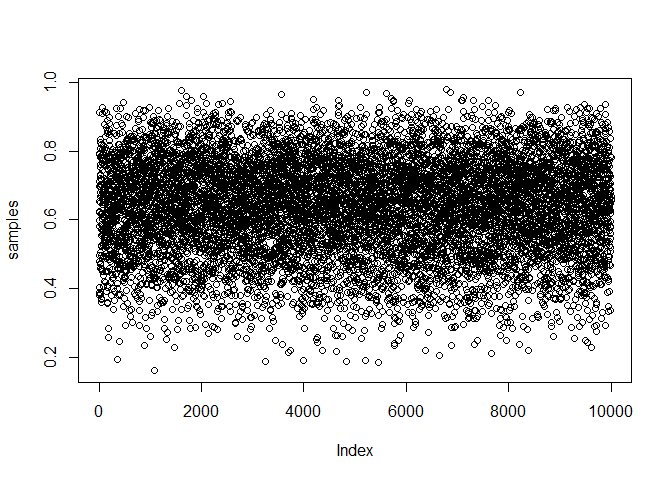
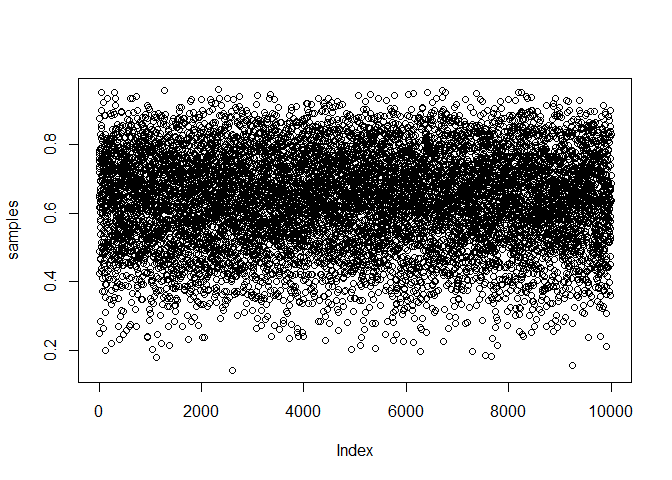
ch3 exercises

diff --git a/03-SamplingTheImaginary.md b/03-SamplingTheImaginary.md
@@ -101,15 +101,15 @@ dens
 #> Call:
 #>  density.default(x = samples)
 #> 
-#> Data: samples (10000 obs.);  Bandwidth 'bw' = 0.01965
+#> Data: samples (10000 obs.);  Bandwidth 'bw' = 0.01989
 #> 
-#>        x                y            
-#>  Min.   :0.1012   Min.   :0.0000239  
-#>  1st Qu.:0.3354   1st Qu.:0.0825700  
-#>  Median :0.5696   Median :0.7681021  
-#>  Mean   :0.5696   Mean   :1.0665385  
-#>  3rd Qu.:0.8037   3rd Qu.:1.9894292  
-#>  Max.   :1.0379   Max.   :2.7763942
+#>        x                 y            
+#>  Min.   :0.07948   Min.   :0.0000242  
+#>  1st Qu.:0.31451   1st Qu.:0.1008201  
+#>  Median :0.54955   Median :0.7759074  
+#>  Mean   :0.54955   Mean   :1.0626218  
+#>  3rd Qu.:0.78459   3rd Qu.:1.9653318  
+#>  Max.   :1.01962   Max.   :2.7782789
 plot(dens)
 ```
 
@@ -117,5 +117,212 @@ plot(dens)
 
 ``` r
 dens$x[which.max(dens$y)]
-#> [1] 0.6584733
+#> [1] 0.6608588
+```
+
+Practice
+--------
+
+### Hard
+
+``` r
+library("tibble")
+library("dplyr")
+#> 
+#> Attaching package: 'dplyr'
+#> The following objects are masked from 'package:stats':
+#> 
+#>     filter, lag
+#> The following objects are masked from 'package:base':
+#> 
+#>     intersect, setdiff, setequal, union
+library("tidyr")
+data(homeworkch3, package = "rethinking")
+
+# 100 two-children families. 1: Child is a boy. 0: Girl.
+df <- data_frame(
+  Family = seq_along(birth1),
+  Child1 = birth1,
+  Child2 = birth2)
+df
+#> # A tibble: 100 x 3
+#>    Family Child1 Child2
+#>     <int>  <dbl>  <dbl>
+#> 1       1      1      0
+#> 2       2      0      1
+#> 3       3      0      0
+#> 4       4      0      1
+#> 5       5      1      0
+#> 6       6      1      1
+#> 7       7      0      1
+#> 8       8      1      1
+#> 9       9      0      0
+#> 10     10      1      0
+#> # ... with 90 more rows
+
+# Long format better reflects nesting of children in families
+df_long <- df %>% 
+  rename(`1` = Child1, `2` = Child2) %>% 
+  gather(Child, Gender, -Family) %>% 
+  readr::type_convert() %>% 
+  arrange(Family, Child)
+df_long
+#> # A tibble: 200 x 3
+#>    Family Child Gender
+#>     <int> <int>  <dbl>
+#> 1       1     1      1
+#> 2       1     2      0
+#> 3       2     1      0
+#> 4       2     2      1
+#> 5       3     1      0
+#> 6       3     2      0
+#> 7       4     1      0
+#> 8       4     2      1
+#> 9       5     1      1
+#> 10      5     2      0
+#> # ... with 190 more rows
+```
+
+**3H1. Using grid approximation, compute the posterior distribution for the probability of a birth being a boy. Assume a uniform prior probability. Which parameter value maximizes the posterior probability?**
+
+Basically, rework through the globe-tossing grid approximation's code with new data.
+
+``` r
+births <- df_long$Gender
+
+p_grid <- seq(from = 0, to = 1, length.out = 1000)
+prior <- rep(1 , 1000)
+
+likelihood <- dbinom(sum(births), size = length(births), prob = p_grid)
+posterior <- likelihood * prior
+posterior <- posterior / sum(posterior)
+
+p_grid[which.max(posterior)]
+#> [1] 0.5545546
+```
+
+**3H2. Using the `sample` function, draw 10,000 random parameter values from the posterior distribution you calculated above. Use these samples to estimate the 50%, 89%, and 97% highest posterior density intervals.**
+
+``` r
+samples <- sample(p_grid, prob = posterior, size = 1e5, replace = TRUE)
+plot(density(samples))
+
+# HPDI returned in a data-frame with a column for probability level
+tidy_hpdi <- function(xs, prob) {
+  xs %>% 
+    coda::as.mcmc() %>% 
+    coda::HPDinterval(prob) %>% 
+    as.data.frame %>% 
+    rownames_to_column("Variable") %>% 
+    as_data_frame() %>% 
+    mutate(Level = prob) %>% 
+    select(Level, Variable, lower, upper)
+}
+
+bind_rows(
+  tidy_hpdi(samples, .5),
+  tidy_hpdi(samples, .89),
+  tidy_hpdi(samples, .97)
+)
+```
+
+![](03-SamplingTheImaginary_files/figure-markdown_github/unnamed-chunk-9-1.png)
+
+    #> # A tibble: 3 x 4
+    #>   Level Variable     lower     upper
+    #>   <dbl>    <chr>     <dbl>     <dbl>
+    #> 1  0.50     var1 0.5265265 0.5735736
+    #> 2  0.89     var1 0.5005005 0.6126126
+    #> 3  0.97     var1 0.4764765 0.6276276
+
+**3H3. Use `rbinom` to simulate 10,000 replicates of 200 births. You should end up with 10,000 numbers, each one a count of boys out of 200 births. Compare the distribution of predicted numbers of boys to the actual count in the data (111 boys out of 200 births).**
+
+``` r
+replicates <- rbinom(n = length(samples), size = 200, prob = samples)
+plot(density(replicates))
+abline(v = sum(births))
+```
+
+![](03-SamplingTheImaginary_files/figure-markdown_github/unnamed-chunk-10-1.png)
+
+**3H4. Now compare 10,000 counts of boys from 100 simulated first borns only to the number of boys in the first births, `birth1`. How does the model look in this light?**
+
+The data don't fall squarely in the middle of the simulations. But they fall in 40% HPDI.
+
+``` r
+replicates <- rbinom(n = length(samples), size = 100, prob = samples)
+plot(density(replicates))
+abline(v = sum(df$Child1))
+```
+
+![](03-SamplingTheImaginary_files/figure-markdown_github/unnamed-chunk-11-1.png)
+
+``` r
+
+sum(df$Child1)
+#> [1] 51
+tidy_hpdi(replicates, .4)
+#> # A tibble: 1 x 4
+#>   Level Variable lower upper
+#>   <dbl>    <chr> <int> <int>
+#> 1   0.4     var1    50    56
+```
+
+**3H5. The model assumes that sex of first and second births are independent. To check this assumption, focus now on second births that followed female first borns. Compare 10,000 simulated counts of boys to only those second births that followed girls. To do this correctly, you need to count the number of first borns who were girls and simulate that many births, 10,000 times. Compare the counts of boys in your simulations to the actual observed count of boys following girls. How does the model look in this light? Any guesses what is going on in these data?**
+
+The parents want the second child to be a boy. The number of boys born after girls falls on the extreme edge of the simulations.
+
+``` r
+n_girl_birth1 <- sum(birth1 == 0)
+n_girl_birth1
+#> [1] 49
+
+boys_after_girls <- df %>% 
+  filter(Child1 == 0, Child2 == 1) %>% 
+  nrow
+boys_after_girls
+#> [1] 39
+
+replicates <- rbinom(n = length(samples), size = n_girl_birth1, prob = samples)
+plot(density(replicates))
+abline(v = boys_after_girls)
+```
+
+![](03-SamplingTheImaginary_files/figure-markdown_github/unnamed-chunk-12-1.png)
+
+It's possible that they want one of each gender. The number of boys born after girls is also kind of skewed away from the simulations, but nowhere near as extremely. Maybe because some parents are fine with two boys.
+
+``` r
+n_boy_birth1 <- sum(birth1 == 1)
+
+girls_after_boys <- df %>% 
+  filter(Child1 == 1, Child2 == 0) %>% 
+  nrow
+girls_after_boys
+#> [1] 30
+
+boys_after_boys <- df %>% 
+  filter(Child1 == 1, Child2 == 1) %>% 
+  nrow
+boys_after_boys
+#> [1] 21
+
+replicates <- rbinom(n = length(samples), size = n_boy_birth1, prob = samples)
+plot(density(replicates))
+abline(v = boys_after_boys)
+```
+
+![](03-SamplingTheImaginary_files/figure-markdown_github/unnamed-chunk-13-1.png)
+
+``` r
+df %>% count(Child1, Child2)
+#> Source: local data frame [4 x 3]
+#> Groups: Child1 [?]
+#> 
+#>   Child1 Child2     n
+#>    <dbl>  <dbl> <int>
+#> 1      0      0    10
+#> 2      0      1    39
+#> 3      1      0    30
+#> 4      1      1    21
 ```
